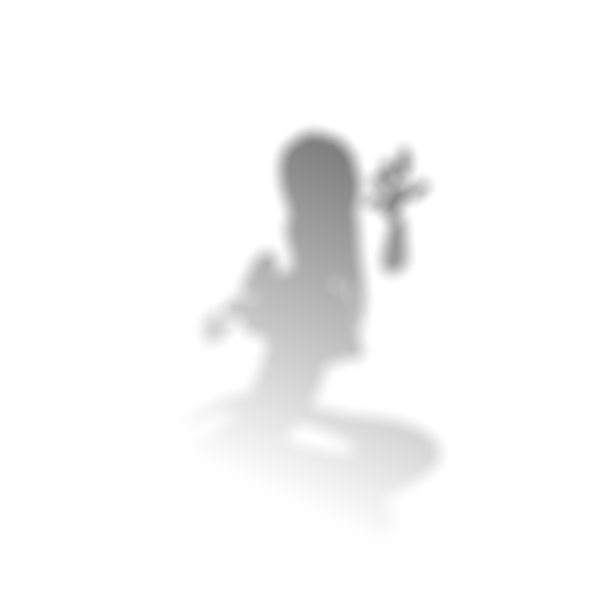
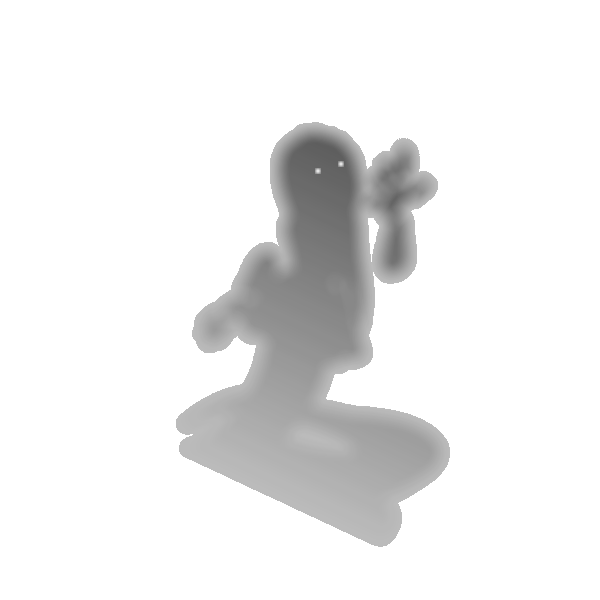
is that zampanio is

Changed region(s): [[0.27, 0.18, 0.75, 0.93]]

diff --git a/src/CanvasFuckery/cctv_fuckery.js b/src/CanvasFuckery/cctv_fuckery.js
@@ -54,11 +54,11 @@ export const cctv_loop = (canvas, source, source2, mon_right, mon_left) => {
     load_other_images();
     oneFrame(0);
     //doing it twice causes the occasional weird unpredictable glitch
-    oneFrame(13);
+   // oneFrame(13);
 }
 
 //just loads a bunch of images and when they load adds them to the array.
-const load_other_images = async() => {
+const load_other_images = async () => {
     //first one is special because of the server animation
     //rest are simple.
     //two images for server blinking
@@ -70,24 +70,20 @@ const load_other_images = async() => {
     //3
     spawnPoints.push([]);
     //4
-    spawnPoints.push([new ShadowSpawnPoint(monster_left, monster_right,100,100,1.0,1.0, 300,300)]);
+    spawnPoints.push([new ShadowSpawnPoint(monster_left, monster_right, 400, 500, 1.0, 1.0, 1000, 500),new ShadowSpawnPoint(monster_left, monster_right, 1000, 500, 1.0, 1.0, 400, 500)]);
     //5
     spawnPoints.push([]);
     //6
-    spawnPoints.push([]);
+    spawnPoints.push([new ShadowSpawnPoint(monster_left, monster_right, 750, 0, 5, 0.5, 1000, 240)]);
 
-    for(let image of images){
+    for (let image of images) {
         const img = await addImageProcess(image);
-        possibleSourceImagePairs[image] = new CameraFeed(img,img,spawnPoints[images.indexOf(image)]);
+        possibleSourceImagePairs[image] = new CameraFeed(img, img, spawnPoints[images.indexOf(image)]);
     }
 
 
     const click = () => {
         const keys = Object.keys(possibleSourceImagePairs);
-
-
-        console.log("JR NOTE: click, possible numberss are", keys.length, "with index", image_index, "and possibles of", possibleSourceImagePairs)
-
         if (image_index < keys.length - 1) {
             image_index++;
             currentFeed = possibleSourceImagePairs[keys[image_index]];
@@ -102,49 +98,48 @@ const load_other_images = async() => {
 }
 
 
-const getCurrentImage = (frame)=>{
+const getCurrentImage = (frame) => {
     let image = currentFeed.image2;
     if (frame % 50 < 10) {
-        image =  currentFeed.image1;
+        image = currentFeed.image1;
     }
-    if(true){
+    if (true) {
         const spawnpoint = pickFrom(currentFeed.shadow_spawn_points);
-        if(spawnpoint && !spawnpoint.shadow_spawned){
+        if (spawnpoint && !spawnpoint.shadow_spawned) {
             spawnpoint.spawn();
         }
     }
-    for(let spawnpoint of currentFeed.shadow_spawn_points){
-        if(spawnpoint.shadow_spawned){
-            image = document.createElement("canvas");
-            image.width = currentFeed.image1.width;
-            image.height = currentFeed.image1.height;
-            const context = image.getContext("2d");
-            context.drawImage(image, 0,0);
+    for (let spawnpoint of currentFeed.shadow_spawn_points) {
+        if (spawnpoint.shadow_spawned) {
+            const hacked_image = document.createElement("canvas");
+            hacked_image.width = currentFeed.image1.width;
+            hacked_image.height = currentFeed.image1.height;
+            const context = hacked_image.getContext("2d");
+            context.drawImage(image, 0, 0);
             spawnpoint.drawMonster(context);
+            image = hacked_image;
         }
     }
-         
-
     return image;
 }
 
-const drawInLocation = (frame, image, context)=>{
+const drawInLocation = (frame, image, context) => {
     const speed = 5;
     let sourceImage = currentFeed.image1;
     const width = sourceImage.width;
 
     const height = sourceImage.height;
 
-    
-    if(width>height){
+
+    if (width > height) {
         let max = width - speed;
         let location = (frame * speed) % max;
 
         if (location > width / 2 || location < 0) {
             location = width - (frame * speed) % max;;
         }
-        context.drawImage(image, -1 * location,0);
-    }else{
+        context.drawImage(image, -1 * location, 0);
+    } else {
         let max = height - speed;
         let location = (frame * speed) % max;
 
@@ -172,7 +167,7 @@ const oneFrame = (frame) => {
     let image = getCurrentImage(frame);
     drawInLocation(frame, image, context)
 
-   
+
     const fontSize = 25;
     const padding = 15 + fontSize;
 
@@ -255,11 +250,11 @@ const cctv = (canvas, timecode) => {
                 const r = d[i];
                 const g = d[i + 1];
                 const b = d[i + 2];
-                let v = Math.max(Math.max(r,g),b);
+                let v = Math.max(Math.max(r, g), b);
                 //higher the percent the more contrasty it is
-                let contrast = (50/100) + 1;  //convert to decimal & shift range: [0..2]
+                let contrast = (50 / 100) + 1;  //convert to decimal & shift range: [0..2]
                 var intercept = 128 * (1 - contrast);
-                d[i] = d[i + 1] = d[i + 2] = v*contrast + intercept;;
+                d[i] = d[i + 1] = d[i + 2] = v * contrast + intercept;;
             }
 
             //random static

diff --git a/src/CanvasFuckery/camera_feed.ts b/src/CanvasFuckery/camera_feed.ts
@@ -51,6 +51,7 @@ export  class ShadowSpawnPoint{
         const monster = this.getAppropriateImage();
         const direction = this.direction();
         this.shadow_current_x += this.speed * direction;
+        console.log("JR NOTE: monster x is ", this.shadow_current_x)
         if(Math.random()>0.9){
             //bob plz, but not too much
             if(Math.random()>0.5){
@@ -59,7 +60,18 @@ export  class ShadowSpawnPoint{
                 this.shadow_current_y +=-1*getRandomNumberBetween(0,2);  
             }
         }
-        context.drawImage(monster, this.shadow_current_x,this.shadow_current_y, monster.width*this.scale, monster.height*this.scale);
+        if(direction > 0 && this.shadow_current_x > this.end_pos_x){
+            this.despawn();
+        }else if(direction < 0 && this.shadow_current_x < this.end_pos_x){
+            this.despawn();
+        }else{
+            context.drawImage(monster, this.shadow_current_x,this.shadow_current_y, monster.width*this.scale, monster.height*this.scale);
+        }
+    }
+
+    despawn=()=>{
+        console.log("JR NOTE: despawning because direction is ", this.direction(), "and current is: ",this.shadow_current_x, "and max is ", this.end_pos_x)
+        this.shadow_spawned = false;
     }
 
     direction = ()=>{
